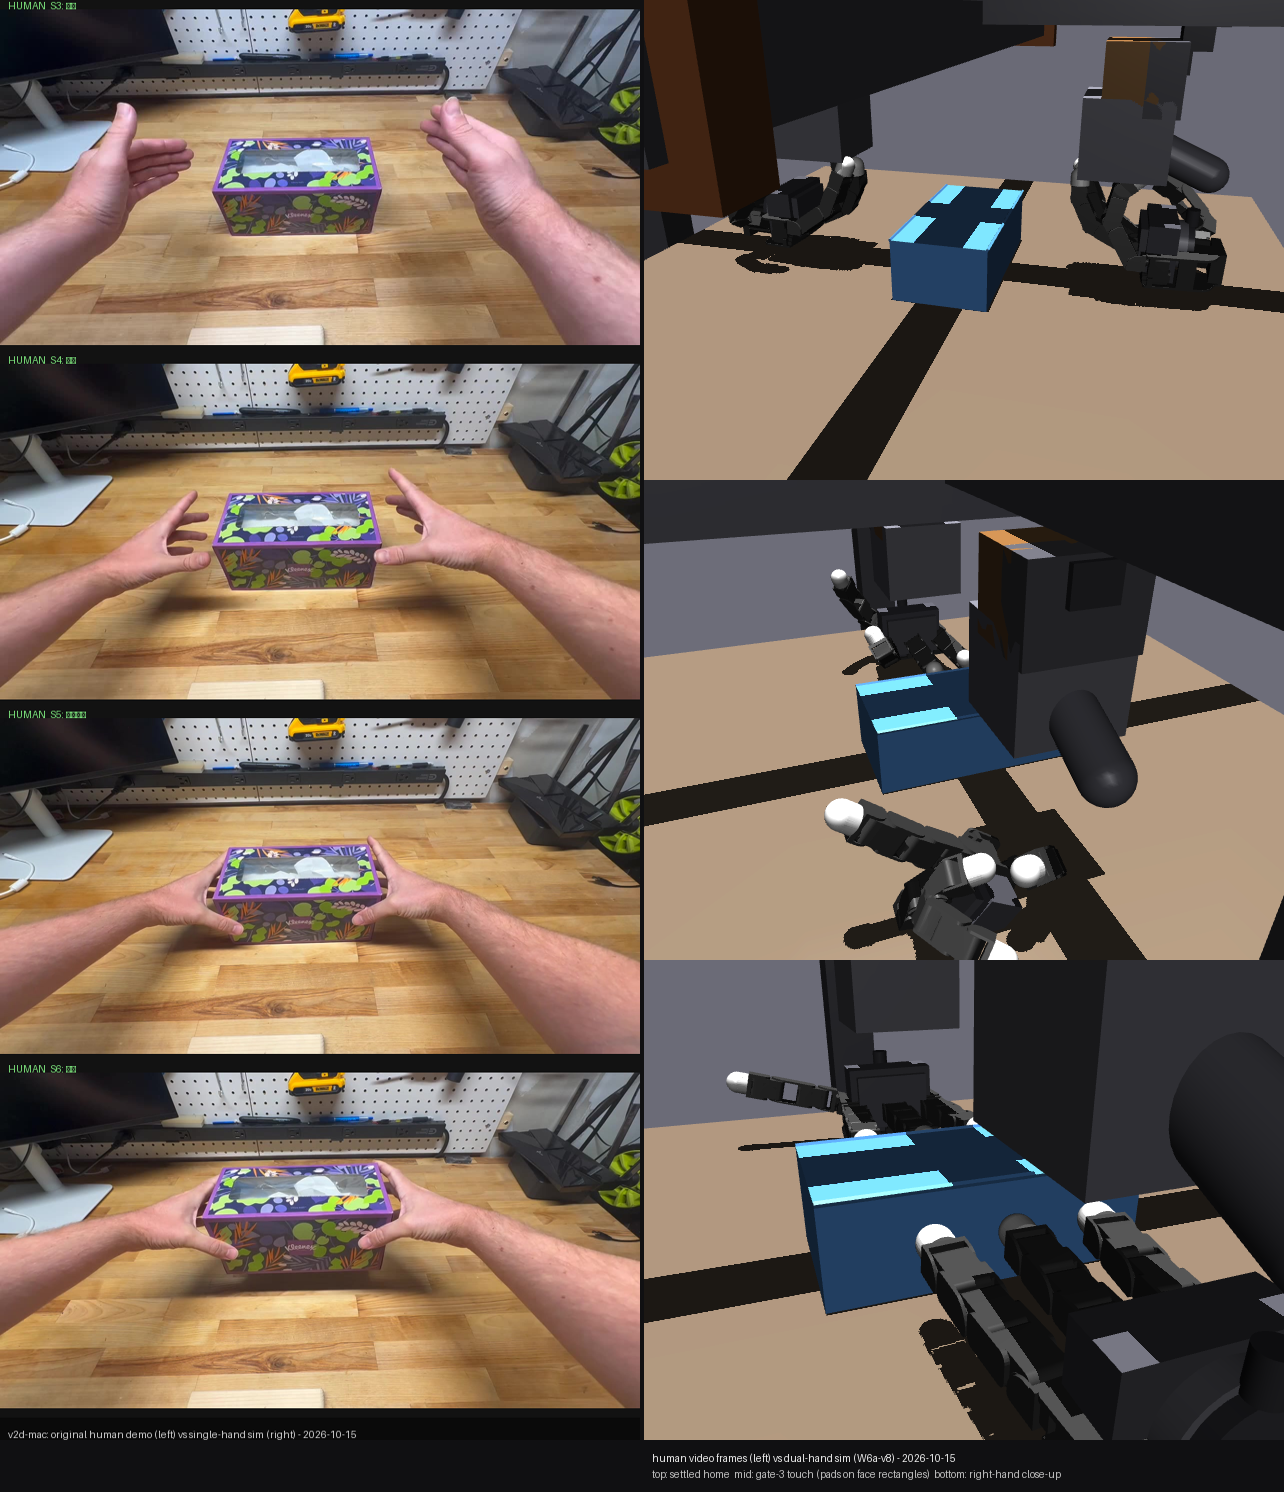
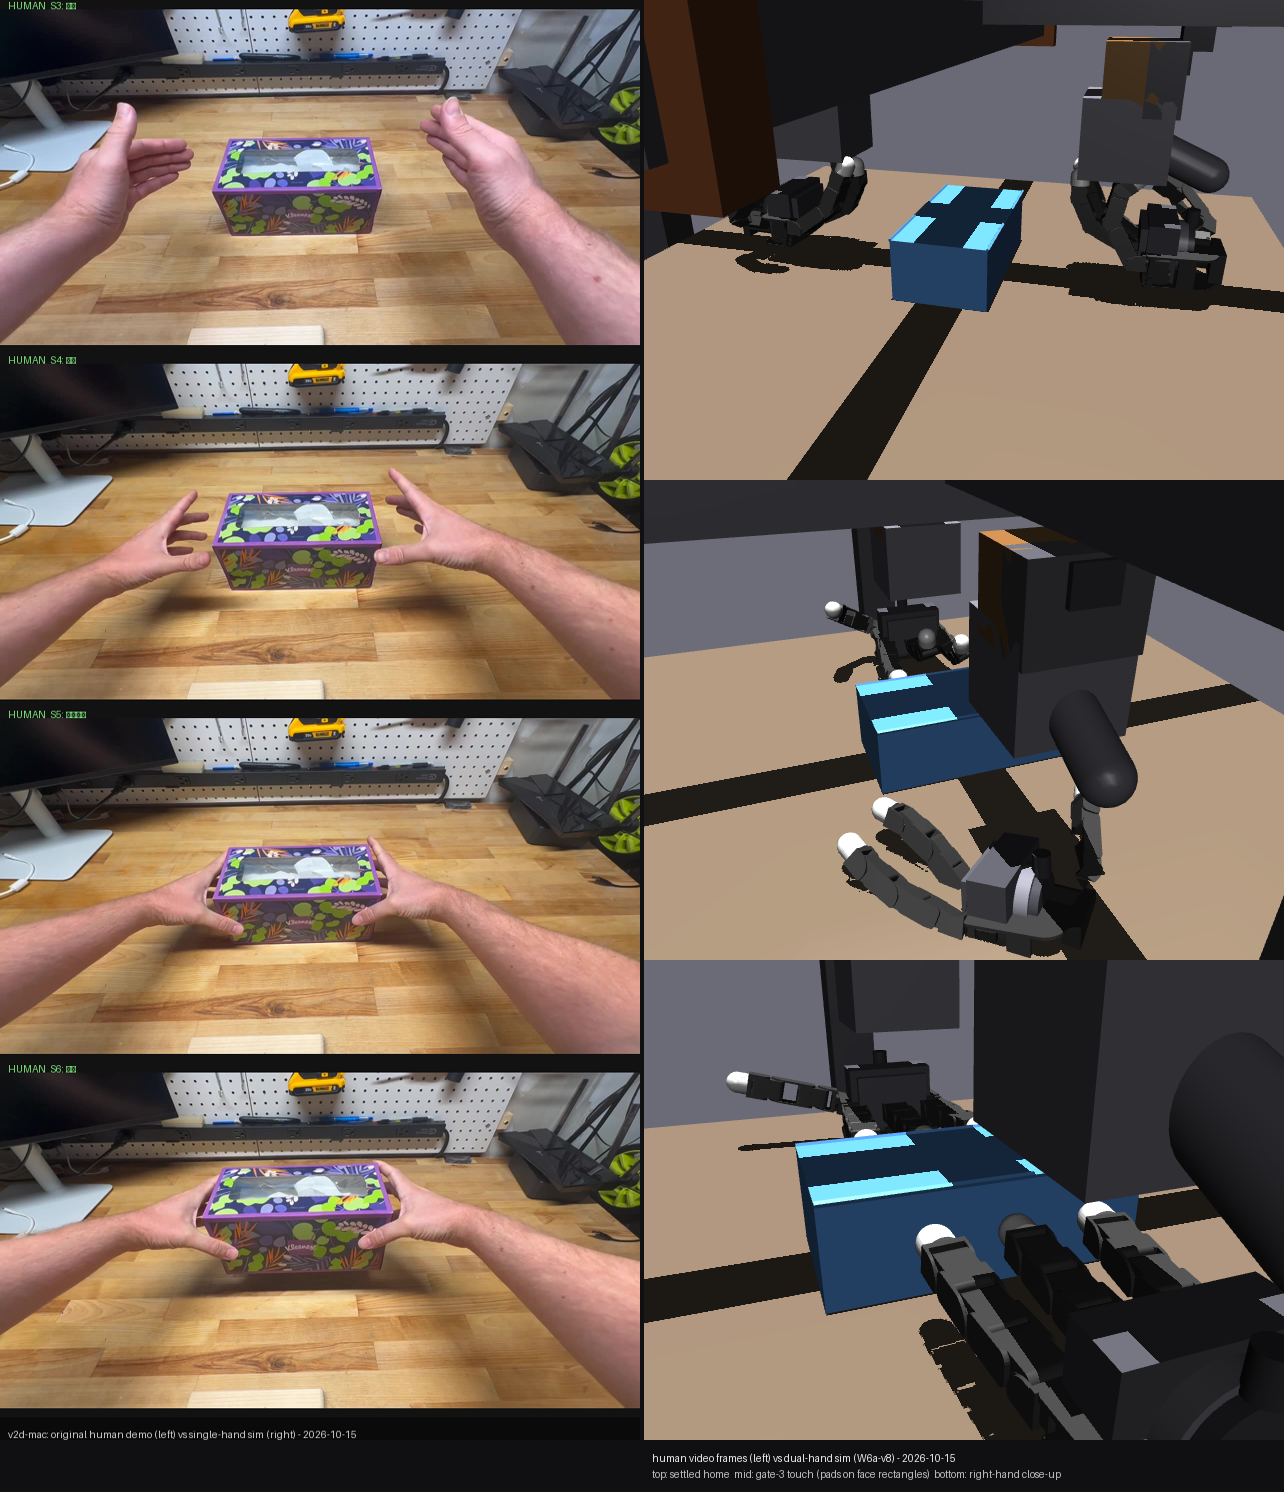
p0(w6a-v10): cylinder fingertip pads (r9x11mm, flat-face contact) + friction 1.8 + panel rerender

Changed region(s): [[0.6231, 0.5241, 0.8723, 0.6475], [0.6231, 0.37, 0.7788, 0.4625]]

diff --git a/tests/test_smoke6_mjcf.py b/tests/test_smoke6_mjcf.py
@@ -341,70 +341,52 @@ def test_r1_measured_fingertip_force_stays_under_ten_newtons(model):
     # into the same 10 N bound.
     import grounding.collect_hook_demos as chd  # noqa: PLC0415
     import grounding.envs.lift_hold_env as lhe  # noqa: PLC0415
-    import grounding.reachable_scan as rs_scan  # noqa: PLC0415
+    # W6a-v10: the press posture = the W6a gate-3 solution (runs/w6/
+    # gate3_qpos.json) - the documented two-pad grasp whose static hold was
+    # verified (gate3b <= 0.8cap per joint). The W5-era hook trajectory was
+    # tuned for the single-hand above-box scene and misses the dual-hand
+    # geometry entirely (0.00 N measured - the pads never reach the box).
+    import grounding.reachable_scan as rs_scan  # noqa: PLC0415, F401
 
-    # the EXACT winning configuration from the W5 chamfer scan (run
-    # runs/w5/chamfer_scan.py --only 3): on the chamfered scene the bare-box
-    # seed pose produces no pad contact, while this one passes the frozen
-    # gates with ff_tip|object in its peak-step contacts.
-    hook_cfg = json.loads("""{
-    "family": "reachable_hook",
-    "wrist_world": [
-        0.17,
-        -0.17,
-        0.84
-    ],
-    "rot": [
-        1.8,
-        -1.25,
-        0.0
-    ],
-    "close": [
-        0.3,
-        1.0,
-        1.0,
-        1.0,
-        0.3,
-        1.0,
-        1.0,
-        1.0,
-        0.3,
-        1.0,
-        1.0,
-        1.0,
-        0.0,
-        -0.7,
-        -0.7,
-        -0.7
-    ],
-    "close_params": [
-        1.0,
-        -0.7,
-        0.0
-    ],
-    "sequence": "descend_then_close",
-    "close_ramp": true,
-    "n_transit": 30,
-    "n_desc": 60,
-    "n_close": 80,
-    "settle": 25,
-    "lift_z": 0.16,
-    "lift_rate": 0.004,
-    "lift_hold": 80
-}""")
-
-    hook_env = lhe.LiftHoldEnv(episode_len=400, domain_rand=False)
-    orig_step = hook_env.step
+    gate3 = json.loads((REPO / "runs/w6/gate3_qpos.json").read_text())["qpos"]
+    hand_names = ([f"wrist_{a}{s}" for s in ("", "_left")
+                   for a in ("x", "y", "z", "rx", "ry", "rz")]
+                  + [f"{f}j{i}{s}" for s in ("", "_left")
+                     for f in ("ff", "mf", "rf", "th") for i in range(4)])
 
     def measuring_step(action):
         result = orig_step(action)
         measure_step(hook_env.model, hook_env.data)
         return result
 
-    # measure DURING the replay: reading contacts after the trajectory has
-    # run to completion measures nothing (the hand has moved on)
+    hook_env = lhe.LiftHoldEnv(episode_len=400, domain_rand=False)
+    orig_step = hook_env.step
+
+
+    # measure DURING the hold: reading contacts after the hold has run to
+    # completion measures nothing (the hand has moved on). The press = drive
+    # both hands' position servos to the gate-3 grasp setpoints (static hold
+    # verified <= 0.8 cap per joint by gate3b) and hold 200 control frames.
     hook_env.step = measuring_step
-    rs_scan.run_traj(hook_env, hook_cfg)
+    hook_env.reset(seed=0)
+    m_env = hook_env.unwrapped
+    hand_adrs = [m_env.model.jnt_qposadr[
+        mujoco.mj_name2id(m_env.model, mujoco.mjtObj.mjOBJ_JOINT, n)]
+        for n in hand_names]
+    for frame in range(200):
+        a = np.zeros(m_env.action_space.shape[0], dtype=np.float32)
+        for h in range(2):
+            base = h * 22
+            for k in range(6):
+                a[base + k] = float(gate3[7 + 22 * h + k])
+            for i in range(16):
+                jname = hand_names[22 * h + 6 + i]
+                jid = mujoco.mj_name2id(m_env.model, mujoco.mjtObj.mjOBJ_JOINT, jname)
+                lo, hi = m_env.model.jnt_range[jid]
+                q_target = float(gate3[7 + 22 * h + 6 + i])
+                a[base + 6 + i] = float(np.clip(
+                    2.0 * (q_target - lo) / (hi - lo) - 1.0, -1.0, 1.0))
+        hook_env.step(a)
     hook_env.step = orig_step
     for gid in list(link_runs):
         _fold_link_run(gid)

diff --git a/grounding/assets/build_allegro_floating.py b/grounding/assets/build_allegro_floating.py
@@ -911,12 +911,13 @@ def _tip_geom_ids(model) -> dict[str, int]:
     out: dict[str, int] = {}
     for f in FINGER_PREFIXES:
         bid = mujoco.mj_name2id(model, mujoco.mjtObj.mjOBJ_BODY, f"{f}_tip")
-        gids = [g for g in range(model.ngeom)
-                if model.geom_bodyid[g] == bid
-                and model.geom_type[g] == mujoco.mjtGeom.mjGEOM_CAPSULE]
-        if len(gids) != 1:
-            raise RuntimeError(f"{f}_tip owns {len(gids)} capsule geoms, expected 1")
-        out[f] = gids[0]
+        # W6a-v10: the tip pad is a CYLINDER (was a sphere) - the tip body
+        # carries a visual mesh geom too, so match the collision geom by name
+        gname = f"{f}_tip_collision"
+        g = mujoco.mj_name2id(model, mujoco.mjtObj.mjOBJ_GEOM, gname)
+        if g < 0:
+            raise RuntimeError(f"collision geom {gname} not found")
+        out[f] = g
     return out
 
 
@@ -1241,6 +1242,16 @@ def _annotate_hand_geoms(palm_el: ET.Element, solref, solimp) -> None:
             # capsules pure white - they read as cartoon balls in renders.
             # rgba ONLY (size/position are collision physics and frozen).
             geom.set("rgba", "0.72 0.72 0.76 1")
+            # W6a-v10 (W6c round-2 levers): 12 mm ball pad -> 11 mm tall flat
+            # cylindrical pad (flat faces kill the contact-point slide that
+            # decayed normal force 1.09 -> 0.52 N mid-press) and rubber-grade
+            # slide friction 1.0 -> 1.8 (Allegro真机即胶垫; r5 capacity
+            # 2.0 -> 3.3 N = 2.2x box weight). Size change shifts the tip body
+            # mass (geom-derived, ~7.2 g -> ~2.8 g per tip) - re-verified in
+            # R10-v10 (settle/hold/clearance re-measured, deltas reported).
+            geom.set("type", "cylinder")
+            geom.set("size", "0.009 0.0055")
+            geom.set("friction", "1.8 0.005 0.0001")
 
 
 # --- W6a / R10: the left hand is a renamed deep copy of the right ------------
